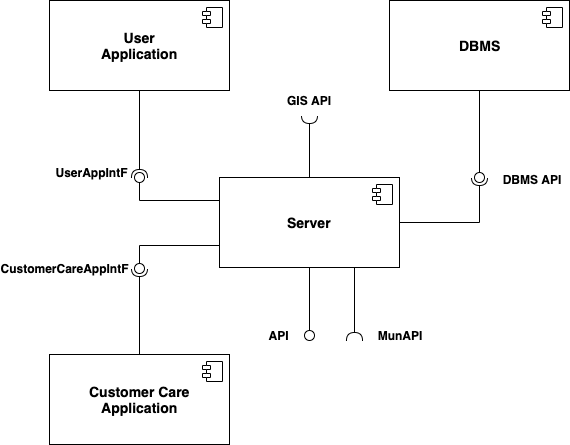
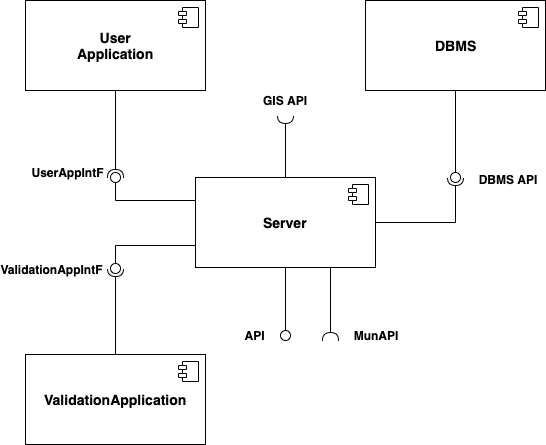
Component view

diff --git a/Releases/DD/DD_archdesign.tex b/Releases/DD/DD_archdesign.tex
@@ -61,65 +61,49 @@
 	}
 \end{figure}
 
-Considering all the previous graphs, we have identified in \autoref{fig:highLevelComponents} the following high level components, interfaces and mapping of the functionality defined in the RASD:
+Considering all the previous graphs, we have identified the following high level components and interfaces, shown in \autoref{fig:highLevelComponents}, implementing the functionalities defined in the RASD:
 \begin{itemize}
 
-	\item User application
+	\item \textbf{User Application}
 	\begin{itemize}
 		\item Register
 		\item Login
-		\item View the map with the position of
-		\begin{itemize}
-			\item himself
-			\item safe areas
-			\item available cars (with their battery level)
-			\item charging stations
-		\end{itemize}
-		\item Reserve a car
-		\item View customer care contacts
-		\item Unlock the reserved car
+		\item Submit a new violation
+		\item View the map with user's own previous submissions
+		\item View the map with all the violations by street
+		\item View the map with safe and unsafe areas
+		\item Consult statistics about violations
 		\item View and edit personal information
-		\item View rents and payments history
 	\end{itemize}
 	\clearpage
-	\item Customer Care application
+	\item \textbf{SafeStreets Operator Application}
 	\begin{itemize}
-		\item View each user profile, including personal information, progress of the current rent, rent and payment history
+		\item View each user profile, including personal information, submissions history and violations history
 		\item Mark and unmark users as banned
-		\item Mark cars as Not Available
+		\item Analyse and approve (or reject) violation reports
 	\end{itemize}
 	
-	\item DBMS
+	\item \textbf{DBMS}
 	\begin{itemize}
 		\item Store and retrieve data
 	\end{itemize}	
 	
-	\item GIS API
+	\item \textbf{GIS API}
 	\begin{itemize}
-		\item Retrieve a reference to an up-to-date map centered on a given position
-		\item Add pointers to the aforementioned map
-		\item Get the latitude and longitude of a given location and vice versa
+		\item Retrieve a reference to an up-to-date map
+		\item Enrich the map with the requested violations
+		\item Enrich the map with graphics representing safe and unsafe areas
 	\end{itemize}
 	
-	\item Payments API
+	\item \textbf{Municipality API}
 	\begin{itemize}
-		\item Execute payment transactions
+		\item Retrieve information about accidents
 	\end{itemize}
 	
-	\item Maintenance API
+	\item \textbf{API}
 	\begin{itemize}
-		\item Expose the list of the cars tagged as Not Available with their GPS position, a brief description of the problem and a software key to access the car
-		\item Tag Not Available cars as Available
-	\end{itemize}
-	
-	\item Car Primitives API
-	\begin{itemize}
-		\item Call car embedded system's primitives
-	\end{itemize}
-	
-	\item Car Event Handler Interface
-	\begin{itemize}
-		\item Triggered by an event notification from cars
+		\item Expose information about the submitted violations
+		\item Suggest possible solutions to avoid violations
 	\end{itemize}
 \end{itemize}
 \clearpage
@@ -204,26 +188,81 @@ An example of such an XML file is
 
 \paragraph{Security}Users' passwords and all credit card numbers (associated to users and used for past payments) must be stored with proper and secure encryption.
 
+\clearpage
 \subsubsection{Server component}
-To explain how the Server component manages interfaces, communication with external components and system functionalities we represent in \autoref{fig:ServerComponent} its internal structure showing its main components and their interactions.
+In this section, we illustrate the \emph{Server} structure and its main components and interactions, in order to explain how interfaces, communication with external components and system functionalities are performed and managed.
 \\
 
-This white box representation shows the parts composing the \emph{Server} component and their interactions by means of lollipop-socket notation. When designing this component's internal structure several concerns and requirements were taken into account:
+The white box representation (\autoref{fig:ServerComponent}) shows the parts composing the \emph{Server} component and their interactions by means of lollipop-socket notation. When designing this component's internal structure, several concerns and requirements were taken into account:
 \begin{itemize}
-	\item all of its required and provided interfaces had to be delegated to some part of its internal structure
-	\item all of the functionalities related to the car reservation, unlock, use and rent payment had to be addressed and provided by some parts of this component
-	\item it had to communicate in different ways with different components, so interface specific parts had to be designed
-	\item associations between internal components needed to be clarified, so lollipop-socket notation was used to express the provided or required interfaces of each part
+	\item All of its required and provided interfaces had to be delegated to some part of its internal structure
+	\item All of the functionalities related to violation submission and report validation had to be addressed and provided by some parts of this component
+	\item Interface specific parts had to be designed in order to communicate in different ways with different external components
+	\item Associations between internal components needed to be clarified
 \end{itemize}
 
 \begin{figure}[h]
-			\centering
-			\includegraphics[width=\linewidth]{ServerComponent}
-			\caption{
-				\label{fig:ServerComponent} 
-				Server component
-			}
-		\end{figure}
+	\centering
+	\includegraphics[width=\linewidth]{ServerComponent}
+	\caption{
+	\label{fig:ServerComponent} 
+		Server component
+	}
+\end{figure}
+
+\paragraph{UserAppServer}
+This component acts as an interface between the user and the application logic of the system: it receives users' violation submission requests or information consultation requests and routes them to the specific handler. This component solves the concerns related to the handling of the requests sent by the users without work loading the rest of the application logic. It also allows the decoupling of the application logic from the presentation logic, which has to be realised in a four tier client-server architecture.
+\paragraph{ValidationAppServer}
+This component provides the \textit{ValidationApplication} client with the information that the operator needs in order to validate the reports submitted by the users and it finally registers the approval or rejection in the \textit{DBMS}. This component was decoupled from the \textit{UserAppServer} component for its structure, but it offers different functionalities and it is only used and accessible by a specific operator via the client application.
+\paragraph{MapHandler}
+This component processes the map visualisation requests performed by the users. It is supported by an external \textit{GIS Service} to retrieve and enrich the map with the information requested. Each of its modules is in charge of retrieve the information to visualise and contact the map service, providing the necessary data. This approach allows the decoupling of the presentation logic from the application logic.\newline\newline
+\begin{figure}[h!]
+	\centering
+	\includegraphics[width=\linewidth]{MapHandlerComponent}
+	\caption{
+		\label{fig:mapHandlerComponentDiagram} 
+		\emph{MapHandler} object diagram
+	}
+\end{figure}
+\paragraph{StatisticsHandler}
+This component processes the statistics requests performed by the users, retrieving data from the \textit{DBMS}, analysing it and turning it into the requested information, which can regard a general or more specific scope. Having a component for this specific purpose enhances decoupling in the system and provides a security layer for the integrity of the data.
+\paragraph{SubmissionHandler}
+This component processes the violation data submitted by the users and the \textit{ImageAnalyser} module is involved to perform the recognition of the license plate in the picture. Finally, the \textit{PlateValidator} module checks whether the recognised plate and possibly the manually inserted plate match and are valid. This data is stored as a report and later validated by the operator to eventually turn it into a violation.\newline\newline
+\begin{figure}[h!]
+	\centering
+	\includegraphics[width=\linewidth]{SubmissionHandlerComponent}
+	\caption{
+		\label{fig:submissionHandlerComponentDiagram} 
+		\emph{SubmissionHandler} object diagram
+	}
+\end{figure}
+\paragraph{AccessHandler}
+This component manages the registration and login phase of the users, encapsulating the logic required to verify the credentials or register new user's information in the \textit{DBMS}. Having a component for this specific purpose enhances decoupling in the system and ensures that these functionalities will not be generate any changes in other components of the system.\newline\newline
+\begin{figure}[h!]
+	\centering
+	\includegraphics[width=\linewidth]{AccessHandlerComponent}
+	\caption{
+		\label{fig:accessHandlerComponentDiagram} 
+		\emph{AccessHandler} object diagram
+	}
+\end{figure}
+\paragraph{UserInformationHandler}
+This component manages the user information present in the system and provides \textit{UserAppServer} and \textit{ValidationAppServer} the data accessible by the user, given his roles' permissions. The main purpose of this component is to secure users' data, avoiding unauthorised users to consult sensible information. The diagram in \autoref{fig:userInformationHandlerDiagram} shows the internal structure of the \textit{UserInformationHandler} component and the delegation associations between the components interfaces involved.
+\paragraph{ValidationHandler}
+This component is used to provide the reports stored in the \textit{DBMS} that still have to be validated to the \textit{ValidationApplication}, in order to allow the \textit{ValidationOperator} to evaluate the submission and decide to approve or reject it. The decision is then stored and the violations information are updated. This component is required to avoid possible malicious or involuntary wrong usages of the system by the customers, trying to submit an unreal violation.
+\paragraph{DataProvider}
+This component is in charge of providing a unified interface to access the different data sources of the System, both the \textit{DBMS} and the files contained in the File System of the OS hosting the application logic. This component allows a better decoupling between the application logic components and the underlying data layer. 
+\paragraph{APIHandler}
+This component is used to manage the authorities requests of accessing informations about submitted violations. The \textit{SecurityChecker} module guarantees that only authorised municipalities is allowed to retrieve that data. Having a component for this specific purpose enhances decoupling between the presentation layer and the data layer, ensuring data reservation and protection. \autoref{fig:APIHandlerDiagram} shows the internal structure of this component.\newline\newline
+\begin{figure}[h!]
+	\centering
+	\includegraphics[width=\linewidth]{APIHandlerComponent}
+	\caption{
+		\label{fig:APIHandlerDiagram} 
+		\emph{APIHandler} object diagram
+	}
+\end{figure}
+		
 \clearpage
 
 \subsubsection{RentManager component}
